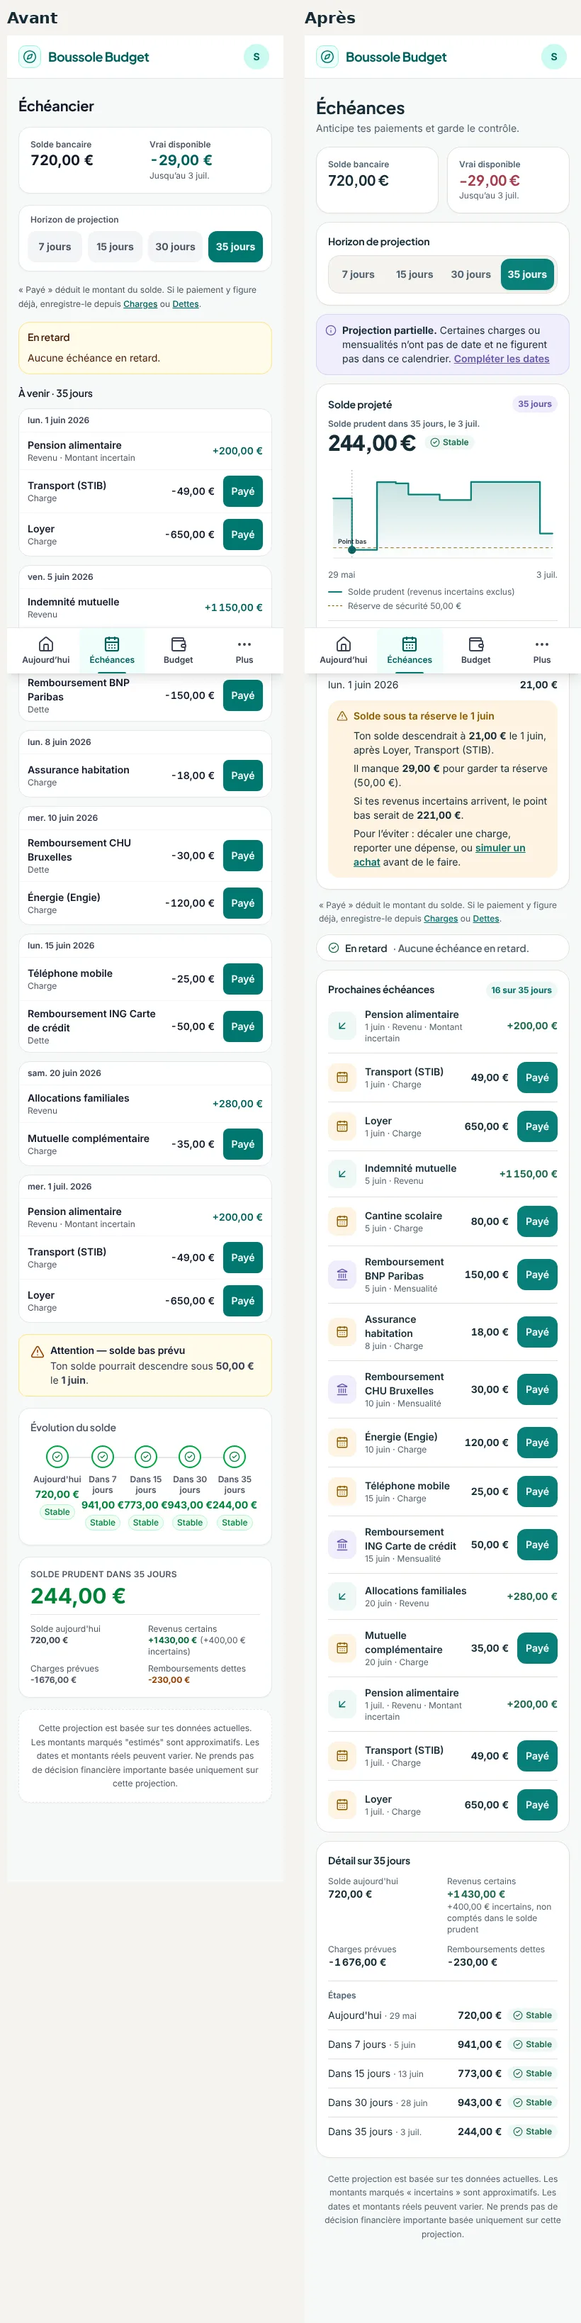
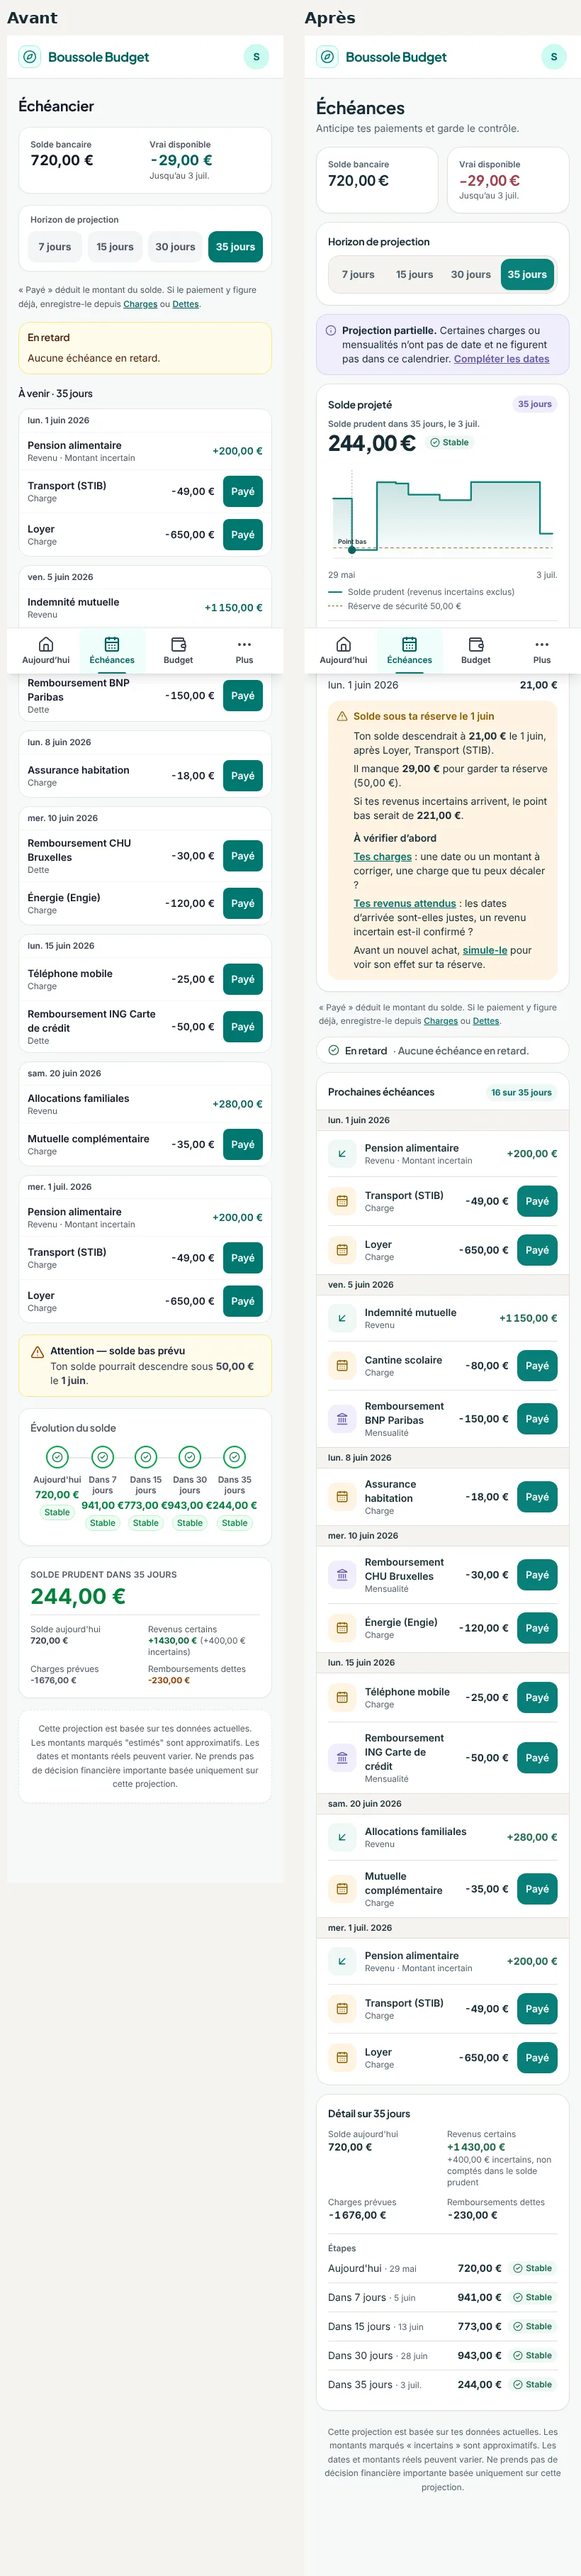
Lot 3 : captures et vérification mises à jour (signes, groupes par jour, alerte)
Claude-Session: https://claude.ai/code/session_01ESTZ2bvTQLaE1dxyyFyAda

diff --git a/design/capiste-signature-v3/lot3/README.md b/design/capiste-signature-v3/lot3/README.md
@@ -4,16 +4,17 @@ Captures du 29 mai 2026 (horloge figée), budgets fictifs de `tests/browser/proj
 
 | Scénario | Ce qu’il montre |
 | --- | --- |
-| `demo` | Budget de démonstration, point bas au-dessus de la réserve, projection partielle |
-| `fragile` | Solde 720 € : point bas 21 € le 1er juin, sous la réserve de 50 € |
-| `negatif` | Solde 120 € : point bas −579 €, alerte « Solde négatif prévu » |
-| `retard` | Loyer du 20 mai non payé : section « En retard » expliquée |
+| `demo` | 16 échéances sur 35 jours, groupées par jour, montants signés, projection partielle |
+| `fragile` | Solde 720 € : point bas 21 € le 1er juin, sous la réserve de 50 € ; simulation proposée avant un achat |
+| `negatif` | Solde 120 € : point bas −579 €, alerte « Solde négatif prévu », vérifier charges et revenus attendus |
+| `negatif-retard` | Même cas avec le loyer du 20 mai non payé : l’alerte renvoie d’abord vers les retards |
 | `vide` | Budget vide : plus de statut « Fragile » ni d’alerte inventés |
 | `sans-echeance` | Solde saisi, aucune échéance : illustration et texte |
 
 ## Vérification
 
-- `tests/browser/projection-v3.mjs` : pour 7 scénarios × 4 horizons, chaque ligne (libellé, montant, date, « Montant incertain », bouton Payé), le solde final et son statut, le point bas, sa date et ses causes, la réserve, le montant manquant, le point bas si les revenus incertains arrivent, le curseur jour par jour et les étapes sont comparés à `buildProjection`. Plus Payé puis Annuler : solde, liste, projection et focus rétablis.
-- `outils/captures-echeances.mjs --comparer` : tous les montants affichés avant sont encore affichés après (valeur absolue), sur 24 des 28 écrans. Les 4 écarts sont le budget vide (0,00 € et 50,00 €), voulu.
+- `tests/browser/projection-v3.mjs` : pour 8 scénarios × 4 horizons, chaque ligne (libellé, **montant signé exact**, groupe du jour, « Montant incertain », bouton Payé), l’ordre des jours, le solde final et son statut, le point bas, sa date et ses causes, la réserve, le montant manquant, le point bas si les revenus incertains arrivent, les liens de l’alerte, le curseur jour par jour et les étapes sont comparés à `buildProjection`. Plus Payé puis Annuler : solde, liste, projection et focus rétablis.
+- Mutation : avec `Math.abs` remis dans la liste, 6 scénarios sur 8 échouent (« Transport (STIB) affiché -49,00 € »). Les 2 autres n’ont aucune sortie.
+- `outils/captures-echeances.mjs --comparer` : tous les montants affichés avant, **signe compris**, sont encore affichés après sur 28 des 32 écrans. Les 4 écarts sont le budget vide (0,00 € et 50,00 €), voulu.
 
 Recréer : `BOUSSOLE_TEST_URL=… node --experimental-strip-types design/capiste-signature-v3/outils/captures-echeances.mjs <dossier>` sur chaque build, puis `--comparer <avant>/montants.json <après>/montants.json`.
